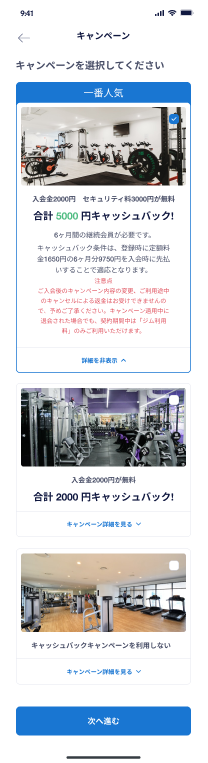
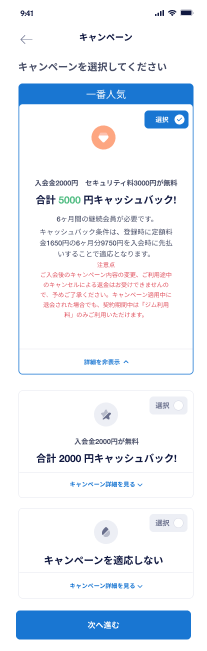
PKT-206 【MB仕様確認】ログイン機能 Login、 会員登録 Member registration comment fix

diff --git a/build/101.html b/build/101.html
@@ -675,7 +675,7 @@
                   <li>
                     許可しない <code>Denied</code> <strong>Button</strong>
                     <ul>
-                      <li>close popup, call API to get list shop info without localtion data</li>
+                      <li>close popup, call API to get list shop info without localtion data(Match the map to Tokyo)</li>
                     </ul>
                   </li>
                 </ul>
@@ -791,10 +791,10 @@
             <h2 id="-select-campaigns"><span class="number">2.5.</span><strong>キャンペーン選択</strong> <code>Select Campaigns</code></h2>
             <ul>
               <li>
-                <p>1 <a href=""><img src="image\jp\mb\101member\Campaigns.png" alt="nf"/></a> <a href=""><img src="image\en\mb\101member\Campaigns.png" alt="nf"/></a></p>
+                <p>1 <a href=""><img src="image\jp\mb\101member\Campaigns.png" alt="nf"/></a> <a href=""><img src="image\en\mb\101member\Campaigns.png" alt="DRAFF"/></a></p>
               </li>
               <li>
-                <p>2 <a href=""><img src="image\jp\mb\101member\CampaignDetails.png" alt="nf"/></a> <a href=""><img src="image\en\mb\101member\CampaignDetails.png" alt="nf"/></a></p>
+                <p>2 <a href=""><img src="image\jp\mb\101member\CampaignDetails.png" alt="nf"/></a> <a href=""><img src="image\en\mb\101member\CampaignDetails.png" alt="DRAFF"/></a></p>
               </li>
             </ul>
             <h3 id="id-3bd89def3c4395a04bf8c7982ff714c989ef4077"><span class="number">2.5.1.</span>項目／イベント定義（Item Event Definition）</h3>
@@ -811,7 +811,8 @@
                   <li>
                     if click itself
                     <ul>
-                      <li>not change status or display</li>
+                      <li>not change check status</li>
+                      <li>detail will switch display and see detail link text will change 「キャンペーン詳細を見る <code>Show More Details</code>」⇄「「詳細を非表示 <code>Show Less Details</code>」</li>
                     </ul>
                   </li>
                   <li>

diff --git a/101.md b/101.md
@@ -22,7 +22,7 @@
     - 許可する  `Accept`  **Button**
         - get current user localtion, close popup, call API to get shop info list with localtion data 
     - 許可しない  `Denied`  **Button**
-        - close popup, call API to get list shop info without localtion data
+        - close popup, call API to get list shop info without localtion data(Match the map to Tokyo)
 
 ### エラー一覧（Error List）
 
@@ -135,9 +135,9 @@
 
 ## **キャンペーン選択**   `Select Campaigns`
 
-- 1 [![nf](image\jp\mb\101member\Campaigns.png)]() [![nf](image\en\mb\101member\Campaigns.png)]()
+- 1 [![nf](image\jp\mb\101member\Campaigns.png)]() [![DRAFF](image\en\mb\101member\Campaigns.png)]()
 
-- 2 [![nf](image\jp\mb\101member\CampaignDetails.png)]() [![nf](image\en\mb\101member\CampaignDetails.png)]()
+- 2 [![nf](image\jp\mb\101member\CampaignDetails.png)]() [![DRAFF](image\en\mb\101member\CampaignDetails.png)]()
 
 ### 項目／イベント定義（Item Event Definition）
 
@@ -150,7 +150,8 @@
 - default no item select, details of campaign is not show, disalbe button 
 - when tab on block or link 「キャンペーン詳細を見る `Show More Details`」
     - if click itself
-        - not change status or display
+        - not change check status
+        - detail will switch display and see detail link text will change 「キャンペーン詳細を見る `Show More Details`」⇄「「詳細を非表示 `Show Less Details`」
     - if click another campain
         - auto show less detail of openning campain
         - check into checkbox & show detail of campaign, 
